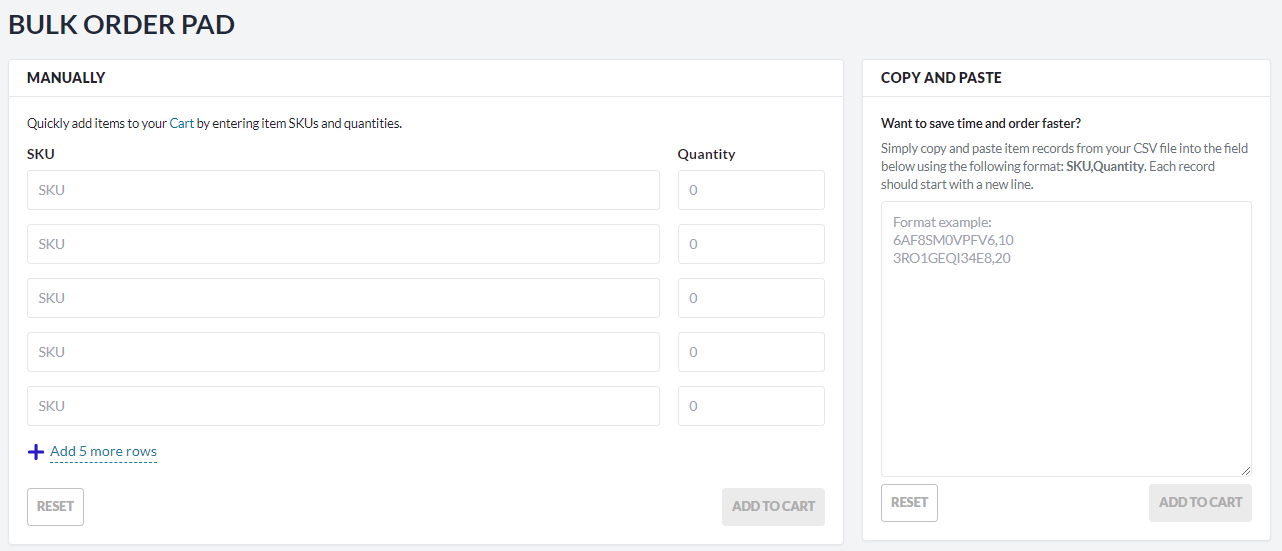
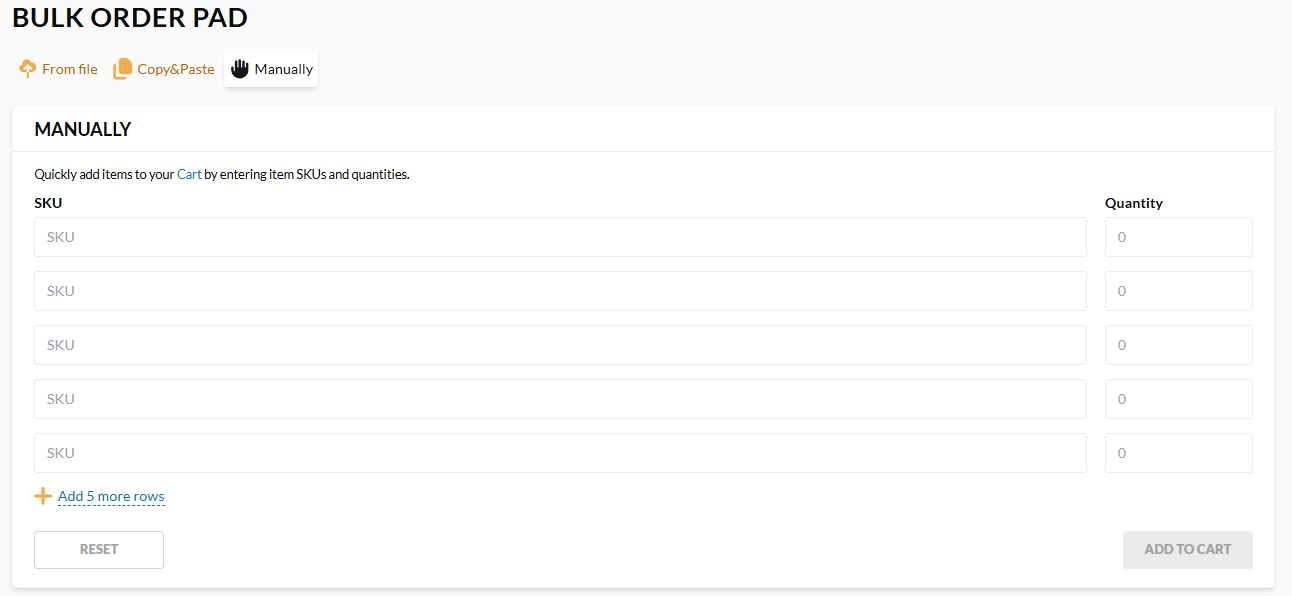
Bulk orders updates

diff --git a/storefront/user-guide/docs/shopping/bulk-orders.md b/storefront/user-guide/docs/shopping/bulk-orders.md
@@ -1,24 +1,53 @@
 # Bulk Orders
 
-The **Bulk orders** function allows users to place orders for a large quantity of products or multiple items at once.
+The **Bulk orders** function allows users to place orders for a large quantity of products or multiple items at once. 
 
-To place a bulk order:
+Click **Bulk order** on the top menu:
 
-1. Click **Bulk order** in the top menu.
+![bulk order](../media/bulk-order.png)
 
-    ![bulk order](../media/bulk-order.png)
+The **Bulk order** pad opens. You will see the following placement options:
 
-1. In the **Bulk order pad**, you can enter products SKUs and quantities:
-    * Manually, one by one.
-    * By copying and pasting them from your SCV file using the following format: SKU,Quantity.
+* From file.
+* By copy-pasting.
+* Manually.
+
+![Bulk order options](../media/bulk-order-options.png)
+
+
+=== "From file"
+
+    Intelligent document processing allows you to upload printed or handwritten files containing order details. It not only recognizes and extracts text from documents, but also understands the context and meaning of the information. To place your bulk order from file:
+
+    1. In the **Bulk order** pad, click on the **From file** tab.
+    1. Drag and drop or browse your file containing order details.
+
+    In a few seconds, the file will be properly recognized, the products will be found in the catalog, and their correct quantities will be added to the order:
+
+    ![AI doc recognition](../media/handwriting-recognition.gif)
+
+=== "Copy and paste"
+
+    To copy and paste your order details:
+
+    1. In the **Bulk order** pad, click on the **Copy & paste** tab.
+    1. Сopy and paste item records from your CSV file into the field using the following format: **SKU,Quantity**. Each record should start with a new line:
+
+    ![Copy and paste](../media/copy-paste.png)
+
+    !!! note
+        Similar product SKUs might belong to different products from different catalogs. If duplicate SKUs are detected, you will receive a notification and be prompted to select the intended product from a dropdown list.
+        ![Similar SKUs](../media/duplicated-skus.png){: width="600"}
+
+=== "Manually"
+
+    1. In the **Bulk order pad**, click on the **Manually** tab:
+    1. Enter SKUs and quantities of the items you want to order:
 
     ![pad](../media/bulk-order-pad.png)
 
-1. Click **Add to cart**.
+    !!! note
+        Similar product SKUs might belong to different products from different catalogs. If duplicate SKUs are detected, you will receive a notification and be prompted to select the intended product from a dropdown list.
+        ![Similar SKUs](../media/duplicated-skus.png){: width="600"}
 
-!!! note
-    Similar product SKUs might belong to different products from different catalogs. If duplicate SKUs are detected, you will receive a notification and be prompted to select the intended product from a dropdown list.
-    ![Similar SKUs](../media/duplicated-skus.png){: width="600"}
-
-
-Now you can proceed to [Checkout.](checkout-process.md)
+Now you can [add products to cart](products-purchase-options.md) or [request a quote](submit-quotes.md).
